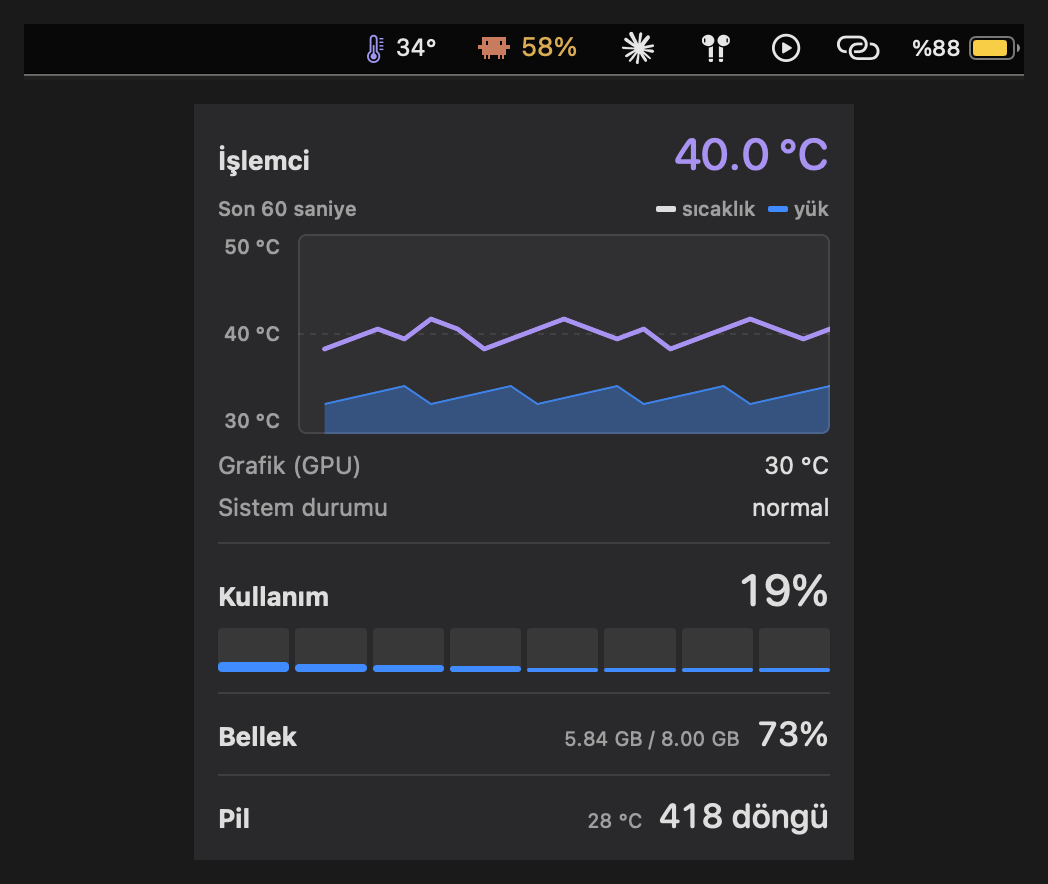
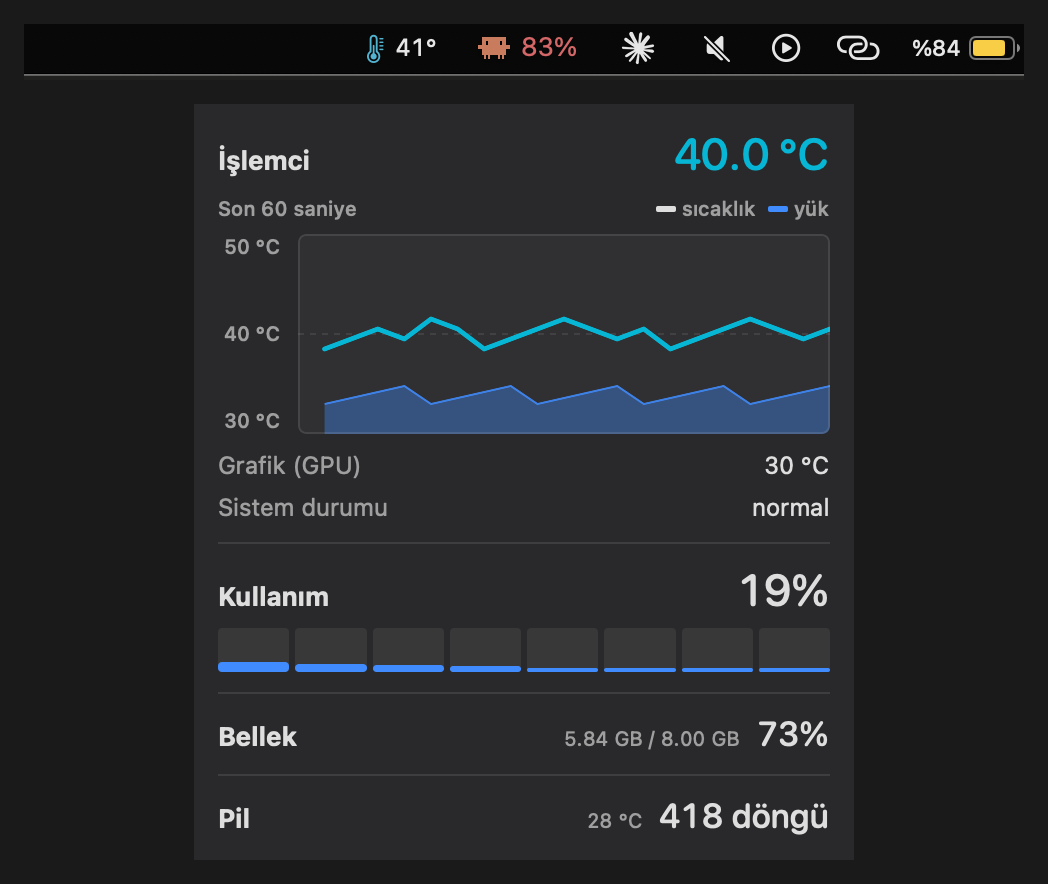
Replace the gradient colour scale with a 6-tier stepped one
Discrete tiers instead of a continuous gradient: <35 very cold, 35-45 cold,
45-60 normal, 60-75 medium, 75-85 hot, 85+ very hot, each an exact hex value
rather than an interpolated one. This deliberately goes back to a
traffic-light-style vocabulary (blue through red) that the previous ramp had
avoided on purpose — a direct choice this time, not an oversight.

Both the menu bar icon and the panel (headline number, graph line) call the
same ısıRengi() function, same as before the change — kept as one shared
scale rather than letting the icon and the panel drift into two different
languages again.

Dropped the light/dark menu-bar-specific colour variants along with the
appearance-detection code that picked between them: the new colours are
saturated enough to read on both without a second tone, verified with a
screenshot at 38 C showing the icon rendering visibly cyan.

README screenshot regenerated to show the new colours instead of the old
gradient.

diff --git a/Sources/MacStatsCore/IsiRengi.swift b/Sources/MacStatsCore/IsiRengi.swift
@@ -3,25 +3,19 @@ import Foundation
 // ============================================================================
 // SICAKLIK → RENK
 //
-// Menü barındaki termometre simgesinin rengi buradan çıkıyor.
+// Menü bar simgesinin ve panelin (büyük sayı + grafik çizgisi) rengi buradan
+// çıkıyor — ikisi de aynı fonksiyonu çağırıyor ki uygulama tek bir renk dili
+// konuşsun.
 //
-// Neden trafik ışığı (yeşil/turuncu/kırmızı) değil:
-//   - Yeşil "her şey yolunda", kırmızı "sorun var" demek. Ama bir işlemcinin
-//     ısınması sorun değil, işini yapması demek. Yanlış duygu veriyordu.
-//   - Menü barında zaten pil, wifi gibi şeyler o renkleri kullanıyor.
-//
-// Onun yerine kızılötesi kameraların ısı haritası: soğukta lacivert-mor,
-// ısındıkça mor, fuşya, en sıcakta kehribar. Bu skalanın iki iyi yanı var:
-//   - Sıcaklık arttıkça renk sadece değişmiyor, AÇILIYOR da. Yani renkleri
-//     ayırt edemeyen biri bile parlaklıktan durumu okuyabiliyor.
-//   - Sıcaklık için zaten tanıdık bir dil.
-//
-// Renkler ara değerlerle geçişli: 42 °C ile 43 °C arasında ani sıçrama yok.
-// Menü barının açık ya da koyu olmasına göre iki ayrı ton var; tek bir renk
-// ikisinde birden okunaklı olmuyor.
+// 6 kademeli, ayrık (sürekli geçişli değil) bir skala. Eşikler ve renkler bir
+// M1 MacBook Air kullanıcısının kendi deneyimine göre belirlediği değerler:
+// < 35 çok soğuk, 35-45 soğuk, 45-60 normal, 60-75 orta, 75-85 sıcak, 85+ çok
+// sıcak. Önceki sürümde (kızılötesi ısı haritası, 30-85 arası sürekli
+// geçişli) yeşil/turuncu/kırmızı kasıtlı olarak kullanılmamıştı; burada
+// tam tersi — bu tablo bilerek geleneksel trafik ışığı mantığını kullanıyor.
 // ============================================================================
 
-/// Basit renk taşıyıcı. AppKit'e bağlı olmasın diye kendi tipimiz —
+/// Basit renk taşıyıcı. AppKit/SwiftUI'a bağlı olmasın diye kendi tipimiz —
 /// böylece bu dosya test edilebiliyor.
 public struct RGB: Sendable, Equatable {
     public let kırmızı: Double
@@ -44,57 +38,32 @@ public struct RGB: Sendable, Equatable {
     }
 }
 
-private struct RenkDurağı {
-    let derece: Double
-    let açıkZemin: RGB   // açık menü barında kullanılacak ton
-    let koyuZemin: RGB   // koyu menü barında kullanılacak ton
+private struct SıcaklıkKademesi {
+    /// Bu kademenin üst sınırı (bu değere kadar, dahil değil). En üst
+    /// kademede nil — üstte sınır yok.
+    let üstSınır: Double?
+    let renk: RGB
 }
 
-// Duraklar arasında hem kırmızı sürekli artıyor hem mavi sürekli azalıyor —
-// yani renk sıralaması tek yönlü. Bu testle korunuyor; bozulursa skala
-// "daha sıcak" hissini vermeyi bırakır.
-//
-// Aralık 30–85 °C. Alt uç bu makinenin boştaki sıcaklığı, üst uç ise
-// gerçekten dikkat edilmesi gereken yer. Dışına taşanlar uçlara sabitleniyor.
-private let ısıSkalası: [RenkDurağı] = [
-    RenkDurağı(derece: 30,
-               açıkZemin: RGB(onaltılık: 0x4A4AD8),   // lacivert-mor
-               koyuZemin: RGB(onaltılık: 0x9A9AF5)),
-    RenkDurağı(derece: 50,
-               açıkZemin: RGB(onaltılık: 0x8A3FC8),   // mor
-               koyuZemin: RGB(onaltılık: 0xB98BEE)),
-    RenkDurağı(derece: 70,
-               açıkZemin: RGB(onaltılık: 0xC63A8C),   // fuşya
-               koyuZemin: RGB(onaltılık: 0xF07CC0)),
-    RenkDurağı(derece: 85,
-               açıkZemin: RGB(onaltılık: 0xD1701A),   // kehribar
-               koyuZemin: RGB(onaltılık: 0xF7A845)),
+// Kademe sırası önemli: ısıRengi() ilk uyanı (derece < üstSınır olanı)
+// döndürüyor, bu yüzden küçükten büyüğe sıralı olmalı.
+private let ısıSkalası: [SıcaklıkKademesi] = [
+    SıcaklıkKademesi(üstSınır: 35, renk: RGB(onaltılık: 0x2563EB)),   // 🧊 Çok soğuk
+    SıcaklıkKademesi(üstSınır: 45, renk: RGB(onaltılık: 0x06B6D4)),   // ❄ Soğuk
+    SıcaklıkKademesi(üstSınır: 60, renk: RGB(onaltılık: 0x22C55E)),   // 🟢 Normal
+    SıcaklıkKademesi(üstSınır: 75, renk: RGB(onaltılık: 0xEAB308)),   // 🟡 Orta
+    SıcaklıkKademesi(üstSınır: 85, renk: RGB(onaltılık: 0xF97316)),   // 🟠 Sıcak
+    SıcaklıkKademesi(üstSınır: nil, renk: RGB(onaltılık: 0xEF4444)),  // 🔴 Çok sıcak
 ]
 
-/// Sıcaklığı simge rengine çevirir.
-/// Okunamayan sıcaklık için nil döner — o durumda simge menü barının kendi
-/// rengini kullanmalı, uydurma bir renk değil.
-public func ısıRengi(_ derece: Double?, koyuZemin: Bool) -> RGB? {
+/// Sıcaklığı simge/panel rengine çevirir.
+/// Okunamayan sıcaklık için nil döner — o durumda renk yerine sistemin kendi
+/// nötr rengi kullanılmalı, uydurma bir renk değil.
+public func ısıRengi(_ derece: Double?) -> RGB? {
     guard let derece else { return nil }
-
-    let ilk = ısıSkalası[0]
-    let son = ısıSkalası[ısıSkalası.count - 1]
-    if derece <= ilk.derece { return koyuZemin ? ilk.koyuZemin : ilk.açıkZemin }
-    if derece >= son.derece { return koyuZemin ? son.koyuZemin : son.açıkZemin }
-
-    for i in 0 ..< (ısıSkalası.count - 1) {
-        let alt = ısıSkalası[i]
-        let üst = ısıSkalası[i + 1]
-        guard derece >= alt.derece, derece <= üst.derece else { continue }
-
-        let oran = (derece - alt.derece) / (üst.derece - alt.derece)
-        let a = koyuZemin ? alt.koyuZemin : alt.açıkZemin
-        let b = koyuZemin ? üst.koyuZemin : üst.açıkZemin
-        return RGB(
-            a.kırmızı + (b.kırmızı - a.kırmızı) * oran,
-            a.yeşil + (b.yeşil - a.yeşil) * oran,
-            a.mavi + (b.mavi - a.mavi) * oran
-        )
+    for kademe in ısıSkalası {
+        guard let üst = kademe.üstSınır else { return kademe.renk }  // son kademe
+        if derece < üst { return kademe.renk }
     }
-    return nil
+    return ısıSkalası.last?.renk  // pratikte hiç buraya düşmez
 }

diff --git a/Tests/MacStatsCoreTests/HesaplamaTests.swift b/Tests/MacStatsCoreTests/HesaplamaTests.swift
@@ -220,51 +220,42 @@ final class GrafikÖlçeğiTests: XCTestCase {
 final class IsıRengiTests: XCTestCase {
 
     func testOkunamayanSıcaklıkRenkVermez() {
-        // Renk yoksa simge menü barının kendi rengini kullanmalı; uydurma
-        // bir renk göstermek "sıcaklık biliniyor" izlenimi verirdi.
-        XCTAssertNil(ısıRengi(nil, koyuZemin: false))
+        // Renk yoksa simge/panel sistemin kendi nötr rengini kullanmalı;
+        // uydurma bir renk göstermek "sıcaklık biliniyor" izlenimi verirdi.
+        XCTAssertNil(ısıRengi(nil))
     }
 
-    func testUçlaraSabitlenir() {
-        // Skala 30-85 °C. Dışına taşan değerler uç renklere sabitlenmeli,
-        // hesap dışına çıkıp saçma renk üretmemeli.
-        XCTAssertEqual(ısıRengi(5, koyuZemin: false), ısıRengi(30, koyuZemin: false))
-        XCTAssertEqual(ısıRengi(120, koyuZemin: false), ısıRengi(85, koyuZemin: false))
+    /// 6 kademenin sınırları ve renkleri — kullanıcının kendi M1 Air
+    /// deneyimine göre belirlediği tablo. Her kademe için hem sınırın hemen
+    /// altını hem üstünü sınıyoruz ki geçiş noktası tam istenen yerde olsun.
+    func testKademeSınırları() {
+        let çokSoğuk = RGB(onaltılık: 0x2563EB)
+        let soğuk    = RGB(onaltılık: 0x06B6D4)
+        let normal   = RGB(onaltılık: 0x22C55E)
+        let orta     = RGB(onaltılık: 0xEAB308)
+        let sıcak    = RGB(onaltılık: 0xF97316)
+        let çokSıcak = RGB(onaltılık: 0xEF4444)
+
+        XCTAssertEqual(ısıRengi(10), çokSoğuk)
+        XCTAssertEqual(ısıRengi(34.9), çokSoğuk)
+        XCTAssertEqual(ısıRengi(35), soğuk)
+        XCTAssertEqual(ısıRengi(44.9), soğuk)
+        XCTAssertEqual(ısıRengi(45), normal)
+        XCTAssertEqual(ısıRengi(59.9), normal)
+        XCTAssertEqual(ısıRengi(60), orta)
+        XCTAssertEqual(ısıRengi(74.9), orta)
+        XCTAssertEqual(ısıRengi(75), sıcak)
+        XCTAssertEqual(ısıRengi(84.9), sıcak)
+        XCTAssertEqual(ısıRengi(85), çokSıcak)
+        XCTAssertEqual(ısıRengi(120), çokSıcak)
     }
 
-    func testIsındıkçaKırmızıArtarMaviAzalır() {
-        // Skalanın yönü: lacivert-mordan kehribara. Kırmızı bileşen sürekli
-        // artmalı, mavi sürekli azalmalı. Bu bozulursa renk sıralaması
-        // anlamını yitirir.
-        let dereceler = [30.0, 40, 50, 60, 70, 80, 85]
-        let renkler = dereceler.compactMap { ısıRengi($0, koyuZemin: false) }
-        XCTAssertEqual(renkler.count, dereceler.count)
-
-        for i in 1 ..< renkler.count {
-            XCTAssertGreaterThan(renkler[i].kırmızı, renkler[i - 1].kırmızı,
-                                 "\(dereceler[i]) °C'de kırmızı artmamış")
-            XCTAssertLessThan(renkler[i].mavi, renkler[i - 1].mavi,
-                              "\(dereceler[i]) °C'de mavi azalmamış")
-        }
-    }
-
-    func testKoyuZeminTonlarıDahaAçık() {
-        // Koyu menü barında okunabilmesi için tonlar daha açık olmalı.
-        for derece in [30.0, 50, 70, 85] {
-            let açık = ısıRengi(derece, koyuZemin: false)!
-            let koyu = ısıRengi(derece, koyuZemin: true)!
-            let açıkParlaklık = açık.kırmızı + açık.yeşil + açık.mavi
-            let koyuParlaklık = koyu.kırmızı + koyu.yeşil + koyu.mavi
-            XCTAssertGreaterThan(koyuParlaklık, açıkParlaklık, "\(derece) °C")
-        }
-    }
-
-    func testAraDeğerlerGeçişli() {
-        // 40 °C, 30 ile 50 arasında olmalı — ani sıçrama değil, geçiş.
-        let a = ısıRengi(30, koyuZemin: false)!
-        let orta = ısıRengi(40, koyuZemin: false)!
-        let b = ısıRengi(50, koyuZemin: false)!
-        XCTAssertGreaterThan(orta.kırmızı, a.kırmızı)
-        XCTAssertLessThan(orta.kırmızı, b.kırmızı)
+    /// RGB, Equatable — init parametre sırasının doğru olduğunu (0xRRGGBB'nin
+    /// R, G, B'ye doğru dağıldığını) burada da doğrulamış oluyoruz.
+    func testOnaltılıkÇözümleme() {
+        let renk = RGB(onaltılık: 0x2563EB)
+        XCTAssertEqual(renk.kırmızı, Double(0x25) / 255, accuracy: 0.001)
+        XCTAssertEqual(renk.yeşil, Double(0x63) / 255, accuracy: 0.001)
+        XCTAssertEqual(renk.mavi, Double(0xEB) / 255, accuracy: 0.001)
     }
 }

diff --git a/Sources/macstats-app/IsiRengiUyum.swift b/Sources/macstats-app/IsiRengiUyum.swift
@@ -4,18 +4,15 @@ import MacStatsCore
 // ============================================================================
 // PANELDE ISI SKALASI
 //
-// Menü bar simgesi kızılötesi ısı haritasını (mor -> fuşya -> kehribar)
-// kullanıyor, ama panelin içindeki büyük sıcaklık sayısı ve grafik çizgisi
-// eski turuncu/kırmızı ikiliyi kullanmaya devam ediyordu — unutulmuştu.
-// Aynı uygulamanın iki yerinde iki farklı renk dili konuşması tutarsız
-// duruyordu. Bu dosya IsiRengi.swift'teki (MacStatsCore) skalayı SwiftUI'ın
-// Color tipine çeviriyor ki panel de aynı dili konuşsun.
+// Menü bar simgesi ve panelin içi (büyük sayı + grafik çizgisi) aynı
+// fonksiyonu çağırıyor ki uygulama tek bir renk dili konuşsun. Bu dosya
+// IsiRengi.swift'teki (MacStatsCore) skalayı SwiftUI'ın Color tipine çeviriyor.
 // ============================================================================
 
-/// Sıcaklığı geçerli aydınlık/karanlık görünüme göre panel rengine çevirir.
+/// Sıcaklığı panel rengine çevirir.
 /// Okunamayan sıcaklık için `.secondary` döner — renkli bir sayı göstermek
 /// "biliniyor" izlenimi verirdi.
-func panelIsiRengi(_ derece: Double?, karanlık: Bool) -> Color {
-    guard let renk = ısıRengi(derece, koyuZemin: karanlık) else { return .secondary }
+func panelIsiRengi(_ derece: Double?) -> Color {
+    guard let renk = ısıRengi(derece) else { return .secondary }
     return Color(red: renk.kırmızı, green: renk.yeşil, blue: renk.mavi)
 }

diff --git a/Sources/macstats-app/PopupGorunumu.swift b/Sources/macstats-app/PopupGorunumu.swift
@@ -25,10 +25,6 @@ struct Popupİçeriği: View {
     let ölçüm: Ölçüm?
     let geçmiş: Geçmiş
 
-    // Panel rengi menü bar simgesiyle aynı ısı skalasını kullanıyor; hangi
-    // tonun (açık/koyu) seçileceğine bu belirliyor.
-    @Environment(\.colorScheme) private var renkŞeması
-
     var body: some View {
         VStack(alignment: .leading, spacing: 10) {
             sıcaklıkBölümü
@@ -56,7 +52,7 @@ struct Popupİçeriği: View {
                 Text(uzunSıcaklık(s?.işlemci, ondalık: 1))
                     .font(.system(size: 22, weight: .medium, design: .rounded))
                     .monospacedDigit()
-                    .foregroundStyle(panelIsiRengi(s?.işlemci, karanlık: renkŞeması == .dark))
+                    .foregroundStyle(panelIsiRengi(s?.işlemci))
             }
 
             // Grafik doğrudan büyük sayının altında: tek bir sayı "58 °C" der

diff --git a/Sources/macstats-app/DurumCubugu.swift b/Sources/macstats-app/DurumCubugu.swift
@@ -137,14 +137,9 @@ final class DurumÇubuğu: NSObject, NSMenuDelegate {
         )
     }
 
-    /// Termometre simgesinin rengi (bkz. IsiRengi.swift — kızılötesi ısı haritası).
-    /// Menü barının açık/koyu olduğuna göre iki tondan biri seçiliyor;
-    /// bunu durum öğesinin kendi görünümünden okuyoruz.
+    /// Termometre simgesinin rengi (bkz. IsiRengi.swift — 6 kademeli skala).
     private func simgeRengi(_ derece: Double?) -> NSColor? {
-        guard derece != nil else { return nil }
-        let koyu = durumÖğesi.button?.effectiveAppearance
-            .bestMatch(from: [.aqua, .darkAqua]) == .darkAqua
-        guard let renk = ısıRengi(derece, koyuZemin: koyu) else { return nil }
+        guard let renk = ısıRengi(derece) else { return nil }
         return NSColor(srgbRed: renk.kırmızı, green: renk.yeşil, blue: renk.mavi, alpha: 1)
     }
 

diff --git a/Sources/macstats-app/MiniGrafik.swift b/Sources/macstats-app/MiniGrafik.swift
@@ -24,9 +24,6 @@ import MacStatsCore
 struct MiniGrafik: View {
     let geçmiş: Geçmiş
 
-    // Sıcaklık çizgisi panelin geri kalanıyla aynı ısı skalasını kullanıyor.
-    @Environment(\.colorScheme) private var renkŞeması
-
     private let alanYüksekliği: CGFloat = 100
     private let etiketGenişliği: CGFloat = 34
 
@@ -195,7 +192,7 @@ struct MiniGrafik: View {
         // Çizginin rengi en son ölçüme göre; panelin ve menü barının
         // kullandığı ısı skalasının aynısı (bkz. IsiRengiUyum.swift).
         let sonDeğer = noktalar[noktalar.count - 1].sıcaklık
-        let çizgiRengi = panelIsiRengi(sonDeğer, karanlık: renkŞeması == .dark)
+        let çizgiRengi = panelIsiRengi(sonDeğer)
 
         return Path { yol in
             for (sıra, nokta) in noktalar.enumerated() {

diff --git a/README.md b/README.md
@@ -81,9 +81,10 @@ Kodda anlaşılmayabilecek yerlerin çoğu yorumlarla açıklandı. Öne çıkan
 - **Bellek baskısı göstergesi kaldırıldı.** Okuduğumuz sysctl bu makinede
   sürekli "uyarı" derken macOS'un kendi aracı belleğin %42'sinin boş olduğunu
   söylüyordu; doğrulayamadığımız bir sayıyı uyarı diye göstermedik.
-- **Menü bar simgesinin rengi** kızılötesi ısı haritası (mor → fuşya →
-  kehribar), trafik ışığı değil: ısınan bir işlemci arıza değil, çalışıyor
-  demek.
+- **Menü bar simgesi ve panel aynı 6 kademeli renk skalasını kullanıyor**
+  (`IsiRengi.swift`): <35 °C çok soğuk, 35-45 soğuk, 45-60 normal, 60-75
+  orta, 75-85 sıcak, 85+ çok sıcak. Ayrık kademeler, sürekli geçiş yok —
+  ikisi ayrı yerde tanımlı olsaydı zamanla birbirinden sapabilirdi.
 - **Ölçüm ana iş parçacığında yapılmıyor** ve yalnızca ekranda gösterilen
   sensörler okunuyor — bir ölçüm 55 ms'ten 3.3 ms'e indi.
 
